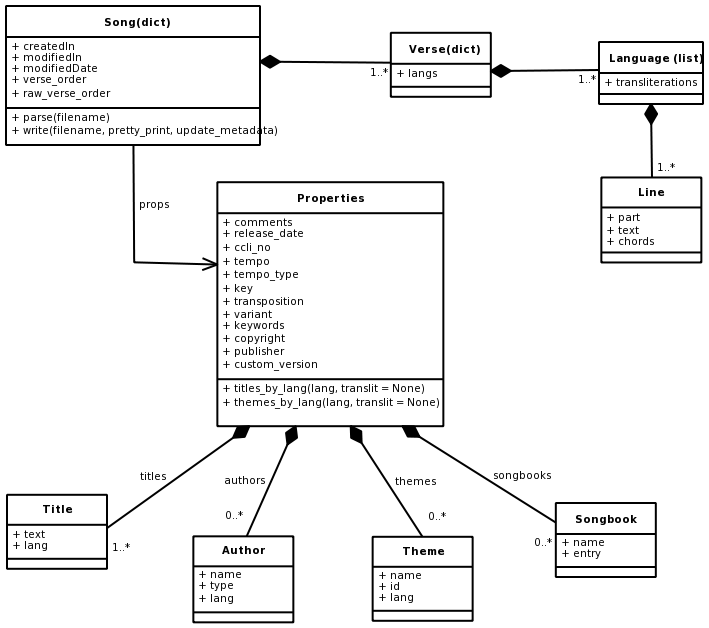
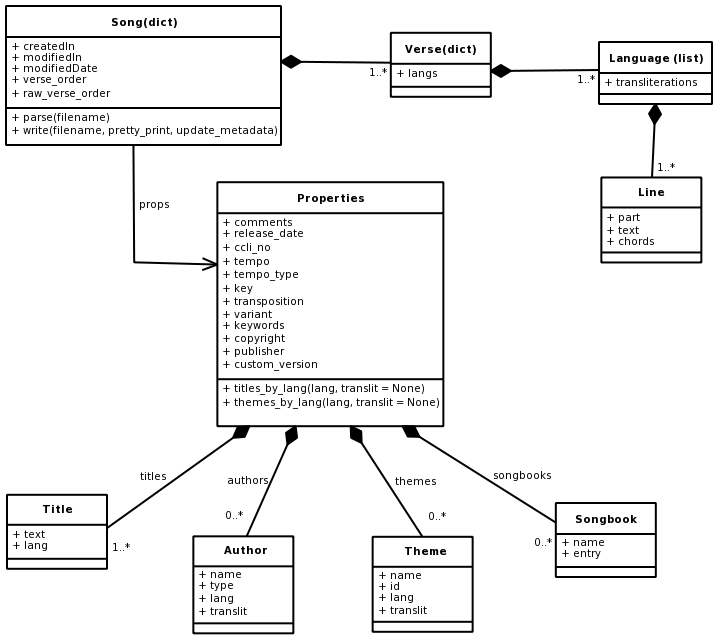
pylib: finish refactoring to get a more pythonic library

Changed region(s): [[0.0, 0.0, 0.9929, 0.9984], [0.0, 0.7261, 0.2793, 0.9076]]

diff --git a/lib/python/openlyrics.py b/lib/python/openlyrics.py
@@ -351,20 +351,41 @@ class Properties(object):
         self.copyright = u''
         self.publisher = u''
         self.custom_version = u''
+
+    def titles_by_lang(self, lang, translit=None):
+        'Select titles only in one language.'
+        return self._items_by_lang(self.titles, lang, translit)
+        
+    def themes_by_lang(self, lang, translit=None):
+        'Select themes only in one language.'
+        return self._items_by_lang(self.themes, lang, translit)
+
+    def _items_by_lang(self, items, lang, translit):
+        'Select titles or themes in one language.'
+        selection = []
+        for i in items:
+            if i.lang == lang:
+                if translit is None:
+                    # transliteration doesn't matter
+                    selection.append(i)
+                elif i.translit == translit:
+                    selection.append(i)
+        return selection
         
     def _from_xml(self, tree, namespace):
         'Load xml into the properties.'
         self.titles = []
         elem = tree.findall(_path(u'properties/titles/title',namespace))
         for el in elem:
-            title = Title(_get_text(el), el.get(u'lang',None))
+            title = Title(_get_text(el), el.get(u'lang',None),
+                    el.get(u'translit',None))
             self.titles.append(title)
         
         self.authors = []
         elem = tree.findall(_path(u'properties/authors/author',namespace))
         for el in elem:
             author = Author(_get_text(el), el.get(u'type',None),
-                            el.get(u'lang',None))
+                    el.get(u'lang',None))
             self.authors.append(author)
         
         self.songbooks = []
@@ -376,7 +397,8 @@ class Properties(object):
         self.themes = []
         elem = tree.findall(_path(u'properties/themes/theme',namespace))
         for el in elem:
-            theme = Theme(_get_text(el), el.get(u'id',None), el.get(u'lang',None))
+            theme = Theme(_get_text(el), el.get(u'id',None),
+                    el.get(u'lang',None), el.get(u'translit',None))
             self.themes.append(theme)
         
         self.comments = []
@@ -506,18 +528,23 @@ class Title(object):
     
     text:  The title as a string.
     lang:  A language code, in the format of "xx", or "xx-YY".
+    translit:  A transliteration language code, in the format of "xx",
+                    or "xx-YY".
     '''
     
-    def __init__(self, text=u'', lang=None):
+    def __init__(self, text=u'', lang=None, translit=None):
         'Create the instance.'
         self.text = text
         self.lang = lang
+        self.translit = translit
     
     def _to_xml(self):
         'Create the XML element.'
         elem = etree.Element(u'title')
         if self.lang:
             elem.set(u'lang', self.lang)
+        if self.translit:
+            elem.set(u'translit', self.translit)
         elem.text = self.text
         return elem
     
@@ -606,13 +633,16 @@ class Theme(object):
     id:    A number from the standardized CCLI list.
                  http://www.ccli.com.au/owners/themes.cfm
     lang:  A language code, in the format of "xx", or "xx-YY".
+    translit:  A transliteration language code, in the format of "xx",
+                or "xx-YY".
     '''
     
-    def __init__(self, name=u'', id=None, lang=None):
+    def __init__(self, name=u'', id=None, lang=None, translit=None):
         'Create the instance.'
         self.name = name
         self.id = id
         self.lang = lang
+        self.translit = translit
     
     def _to_xml(self):
         'Create the XML element.'
@@ -621,6 +651,8 @@ class Theme(object):
             elem.set(u'id',self.id)
         if self.lang:
             elem.set(u'lang',self.lang)
+        if self.translit:
+            elem.set(u'translit',self.translit)
         elem.text = self.name
         return elem
     

diff --git a/lib/python/tests/test_basic.py b/lib/python/tests/test_basic.py
@@ -237,6 +237,20 @@ class TranslatedSongTestCase(unittest.TestCase):
 
         # title in EN, HE, and transliteration to EN
         self.assertEqual(3, len(s.props.titles))
+
+        # theme in EN, HE, and transliteration to EN
+        self.assertEqual(3, len(s.props.themes))
+
+        # test select titles and themes by lang
+        self.assertEqual(0, len(s.props.titles_by_lang(None)))
+        self.assertEqual(1, len(s.props.titles_by_lang('en')))
+        self.assertEqual(2, len(s.props.titles_by_lang('he')))
+        self.assertEqual(1, len(s.props.titles_by_lang('he', 'en')))
+
+        self.assertEqual(0, len(s.props.themes_by_lang(None)))
+        self.assertEqual(1, len(s.props.themes_by_lang('en')))
+        self.assertEqual(2, len(s.props.themes_by_lang('he')))
+        self.assertEqual(1, len(s.props.themes_by_lang('he', 'en')))
         
 
 
